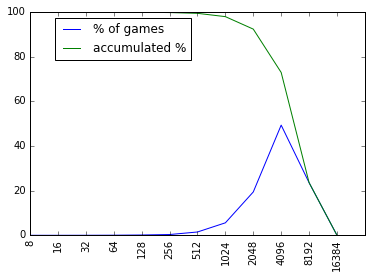
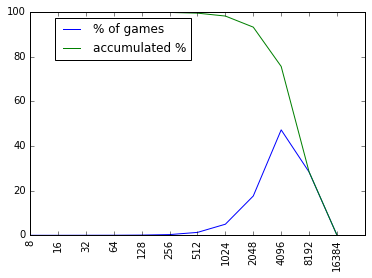
update readme and statistics

diff --git a/README.md b/README.md
@@ -10,7 +10,7 @@ It is a fork of http://ov3y.github.io/2048-AI/ and replace the AI part by a neur
 
 The neural network is pretrained using Theano and lasgane by observing simulated games and supervised by an advance AI https://github.com/nneonneo/2048-ai
 
-The trained neural network can achieve 2048+ in >92% of the games. It reaches 4096 in >72% of the games and reaches 8192 in >23% of the games.
+The trained neural network can achieve 2048+ in >93% of the games. It reaches 4096 in >75% of the games and reaches 8192 in >28% of the games.
 
 It may sometimes fails with an embarrassingly low score.
 
@@ -18,24 +18,24 @@ The following is the result of 100K games played by the neural network
 
 |max tile| % of games| accumulated %| reversed accumulated %| 
 |--------|-----------|--------------|---------|
-|16384   |0.018%     |        0.018%|100.000%|
-|8192    |23.583%    |       23.601%| 99.982%|
-|4096    |49.354%    |       72.955%| 76.399%|
-|2048    |19.421%    |       92.376%| 27.045%|
-|1024    | 5.591%    |       97.967%|  7.624%|
-|512     | 1.483%    |       99.450%|  2.033%|
-|256     | 0.342%    |       99.792%|  0.550%|
-|128     | 0.138%    |       99.930%|  0.208%|
-|64      | 0.049%    |       99.979%|  0.070%|
-|32      | 0.016%    |       99.995%|  0.021%|
-|16      | 0.003%    |       99.998%|  0.005%|
+|16384   | 0.068%    |        0.068%|100.000%|
+|8192    |28.356%    |       28.424%| 99.932%|
+|4096    |47.234%    |       75.658%| 71.576%|
+|2048    |17.606%    |       93.264%| 24.342%|
+|1024    | 4.968%    |       98.232%|  6.736%|
+|512     | 1.301%    |       99.533%|  1.768%|
+|256     | 0.314%    |       99.847%|  0.467%|
+|128     | 0.099%    |       99.946%|  0.153%|
+|64      | 0.033%    |       99.979%|  0.054%|
+|32      | 0.017%    |       99.996%|  0.021%|
+|16      | 0.002%    |       99.998%|  0.004%|
 |8       | 0.002%    |      100.000%|  0.002%|
 
 or in graph
 
 <img src="plot1.png" />
 
-The average score is 73535.7 and the average length of a game is 3279.8 steps.
+The average score is 78771 and the average length of a game is 3483.3 steps.
 
 The following graph shows how many games left after certain steps in the 100K simulations:
 
